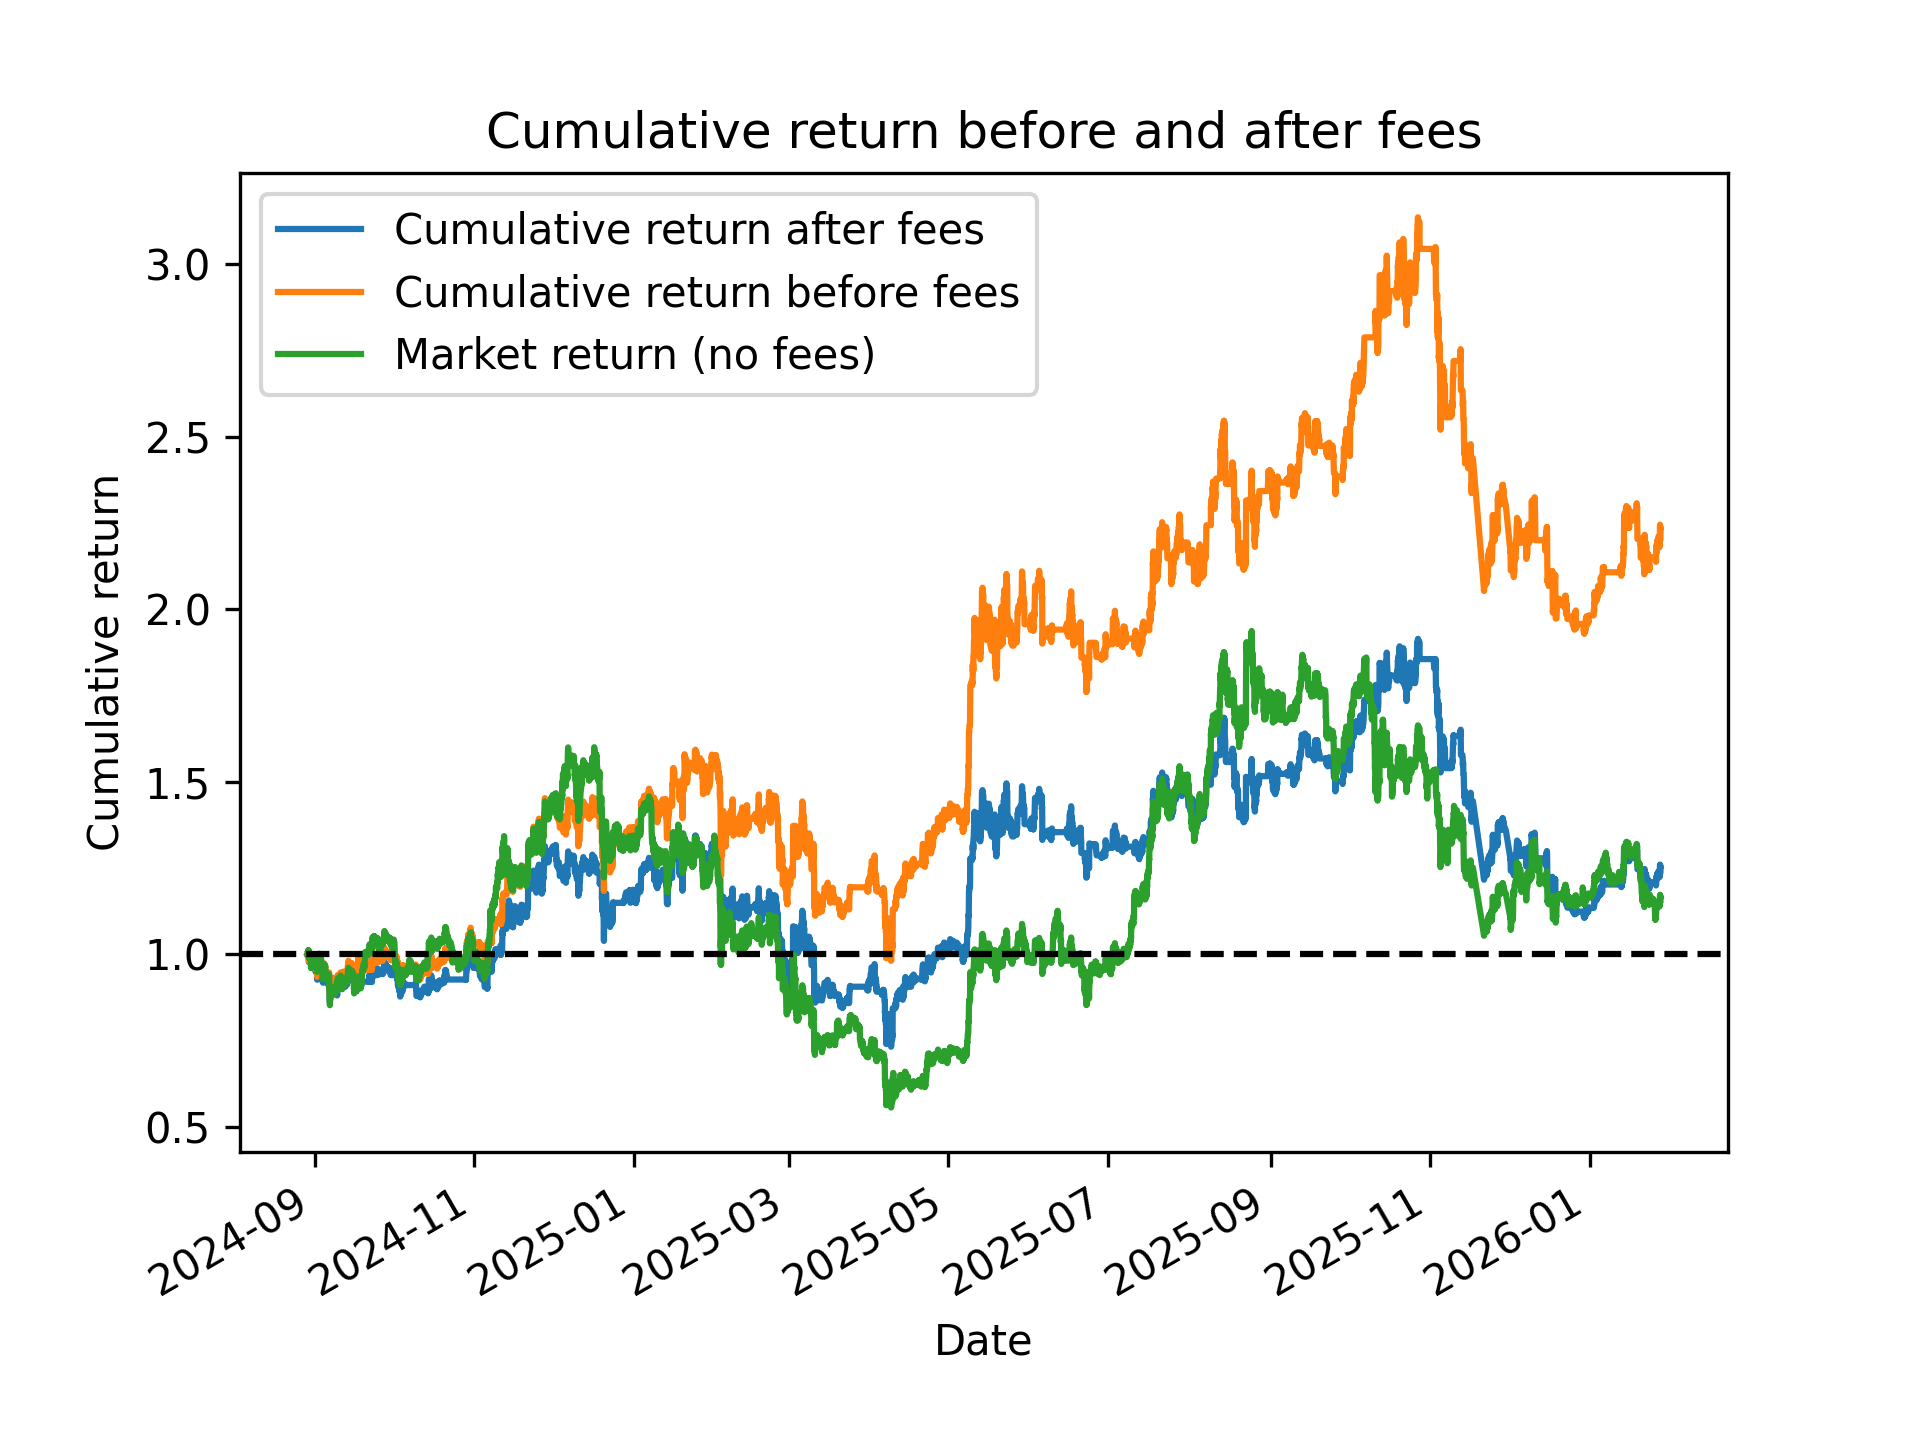
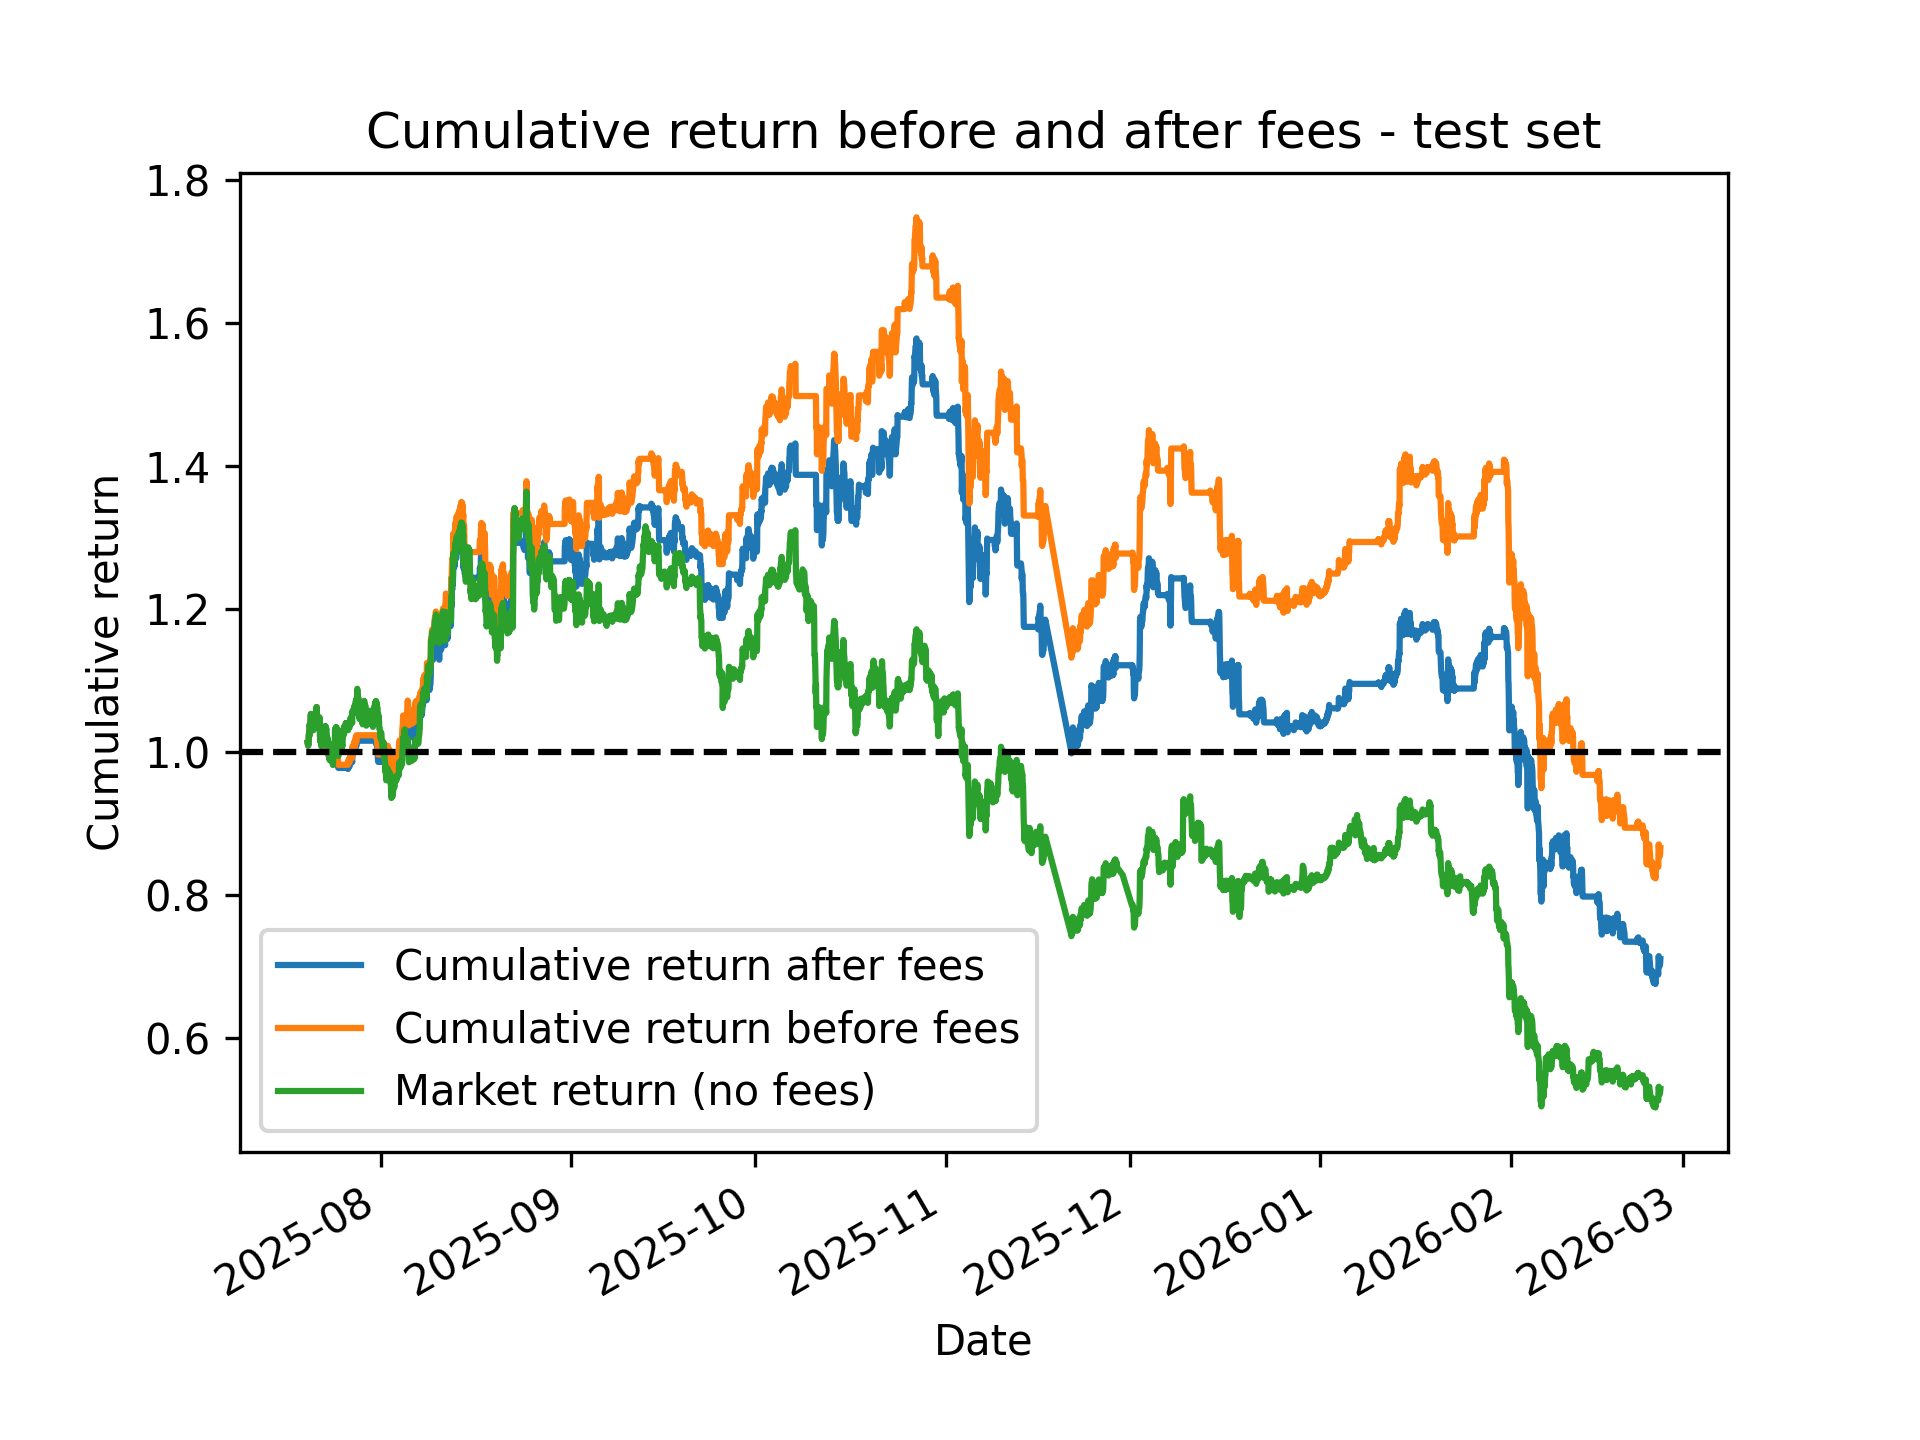
Final

diff --git a/ML_strategy.py b/ML_strategy.py
@@ -284,6 +284,7 @@ y_pred_train = (train_proba >= 0.50).astype(int)
 print(classification_report(y_xg_train, y_pred_train))
 
 all_predictions = pd.Series(y_pred_proba, index=X_xg_test.index)
+train_predictions = pd.Series(y_pred_train, index = X_xg_train.index)
 
 model_total.score(X_xg, y_xg)
 
@@ -293,22 +294,20 @@ model_total.score(X_xg, y_xg)
 ##############################################################
 
 #Creating position 
+
 backtest_df = (pd.DataFrame(all_predictions.copy())).rename(columns = {0: 'target'})
 backtest_df['P_t'] = X_prep['P_t']
 
 backtest_df['stable_position']= create_stable_position(backtest_df, tp=0.04, sl=sl, horizon=horizon)
 
-
 #Adding return
 backtest_df['hourly_return']= X_prep['hourly_return'] #merged based on index
-
 
 # Cum return before fees
 backtest_df = cum_return(backtest_df)
 
 backtest_df = cum_return_after_fees(backtest_df)
 print(backtest_df['perfect_cum_return'][-1],backtest_df['perfect_cum_return_w_fees'][-1])
-print(backtest_df.tail(100))
 
 ### random
 backtest_df['cum_return_market']= (1+backtest_df['hourly_return']).cumprod()
@@ -317,7 +316,7 @@ plt.plot(backtest_df['perfect_cum_return_w_fees'], label = 'Cumulative return af
 plt.plot(backtest_df['perfect_cum_return'], label = 'Cumulative return before fees')
 plt.plot(backtest_df['cum_return_market'], label = 'Market return (no fees)')
 plt.axhline(y=1, color='black', linestyle='--', linewidth=1.5)
-plt.title('Cumulative return before and after fees')
+plt.title('Cumulative return before and after fees - test set')
 plt.xlabel('Date')
 plt.ylabel('Cumulative return')
 plt.legend()

diff --git a/README.md b/README.md
@@ -8,22 +8,22 @@ The model is trained on an hourly dataset of the last 730 days and predicts whet
 
 * **Labeling:** A binary target variable was engineered using a forward-looking return calculation. It equals 1 if the future return (in a 48h time window) reaches a specific threshold (e.g., >=4%) and 0 otherwise.
 
-* **Methodology:** Model was defined using max_depth of 3 to avoid overfitting to noise in hourly ETH data. The model was evaluated using two training regimes: a static Full Training Set to establish a baseline and an Expanding Window (Walk-forward) to simulate a real production environment and adapt to the fast-paced crypto market.
+* **Methodology:** Model was defined using max_depth of 3 to avoid overfitting to noise in hourly ETH data. The model was evaluated using two training regimes: a static Full Training Set and an Expanding Window (Walk-forward).
 
 * **Execution:** Once a signal is triggered, the strategy manages the position using a triple-barrier exit logic: Take-Profit, Stop-Loss, or Time-Horizon expiration—whichever occurs first.
 
 ## 📈 Performance & Risk mitigation
 
-* **Gross vs. Net Cumulative returns:** The "Before fees" line shows a theoretical return exceeding 140%. However, by implementing a realistic **0.15% fee per trade** (accounting for slippage), the "After fees" line reveals the actual net profitability. The strategy achieved a net return of approximately **+30%** after all costs (Sept 2024 – Jan 2026), effectively tracking the overall market return for the period.
+* **Training regimes selection:** Since cryptocurrency return prediction demands substantial data to produce even directionally reliable signals, the expanding window model was found to be less suitable. Model with the simple train/test split (70/30) performed more consistently and therefore was selected for backtesting. 
+
+* **Train vs. Test :**  Model achieves f1-score of ±0.52 on the training set period, reaching ±650% cumulative return (before fees), largely supported by strict stop-loss limits. Test set f1-score is ±0.36. Both statistics suggest the presence of weak but non-random signal in the data.
+
+* **Gross vs. Net Cumulative returns on Test set:** Before fees cumulative return on the test period reaches 86% compared to market return of 52%. By implementing a realistic **0.15% fee per trade** (accounting for slippage), I calculate the cum. return after fees. The strategy performs better than the market, when it achieves a net return of approximately **-30%** after all costs (July 2025 – Jan 2026) vs. **-50%** of the market's buy&hold.
 
 ![Cumulative Returns](cum_return.png)
 
-* **Risk Mitigation:** The model’s value is most evident during market corrections, where it has proven to minize losses and stabilize return path when compared to the market return. This was achieved through:
+* **Regime dependence:** The model delivered high performance untill November 2025, when market price was growing or declining gradually. However, model underperforms in the period of steep price decline.
 
-    1. **Probability Thresholding:** Only entries with a confidence score of **P > 0.60** were executed.
-    2. **Stable Position Logic:** A custom function that prevents "churning" (over-trading) and enforces exit rules based on stop-loss and take-profit targets.
-
-![Market Correction Detail](cum_return%20-%2002.2026.png)
 
 ## 🛠 Feature Engineering & Logic
 The model's predictive power is derived from a mix of momentum, volatility, and cross-asset correlation features.
@@ -32,10 +32,11 @@ The model's predictive power is derived from a mix of momentum, volatility, and 
 
 * **Distance to SMA200/50:** Identified as the most significant features, indicating a reliance on mean-reversion signals.
 * **ATR_rel (Volatility):** Helps the model adjust risk thresholds based on current market noise.
-* **BTC Gap:** While Bitcoin is often a leading indicator, its relative impact on hourly Ethereum data is less consequential, likely because arbitrage between the two assets occurs on even lower timeframes, while fundamental shifts of capital happen on longer scale (daily).
+* **BTC Gap:** While Bitcoin is often a leading indicator, its relative impact on hourly Ethereum data was found not consequential, likely because arbitrage between the two assets occurs on even lower timeframes, while fundamental shifts of capital happen on longer scale (daily).
 
 ## 🚀 Future work to be done
-* **Flexible probability thresholding:** Due to the conservative buy threshold, the model sometimes misses out on bull periods. Instead of a fixed P > 0.60, a dynamic threshold could be implemented. In a strong uptrend (e.g., price > SMA200), lower the threshold to catch more momentum. In a downtrend, keep it at 0.60 or higher to remain defensive.
+* **Optimilizing training data:** Model should be trained on data that contain periods representing both bull and bear markets to be better protected against periods of extreme price movements. 
+* **Flexible probability thresholding:** Instead of a fixed P > 0.50, a dynamic threshold could be implemented. In a strong uptrend (e.g., price > SMA200), keep the threshold to catch the momentum. In a downtrend, increase it to 0.60 or higher to be more defensive.
 * **Addition of new explanatory variables:** Add more variables to better identify bull and bear runs, such as volume profiles or ETH funding rates.
 
 ## Caution
